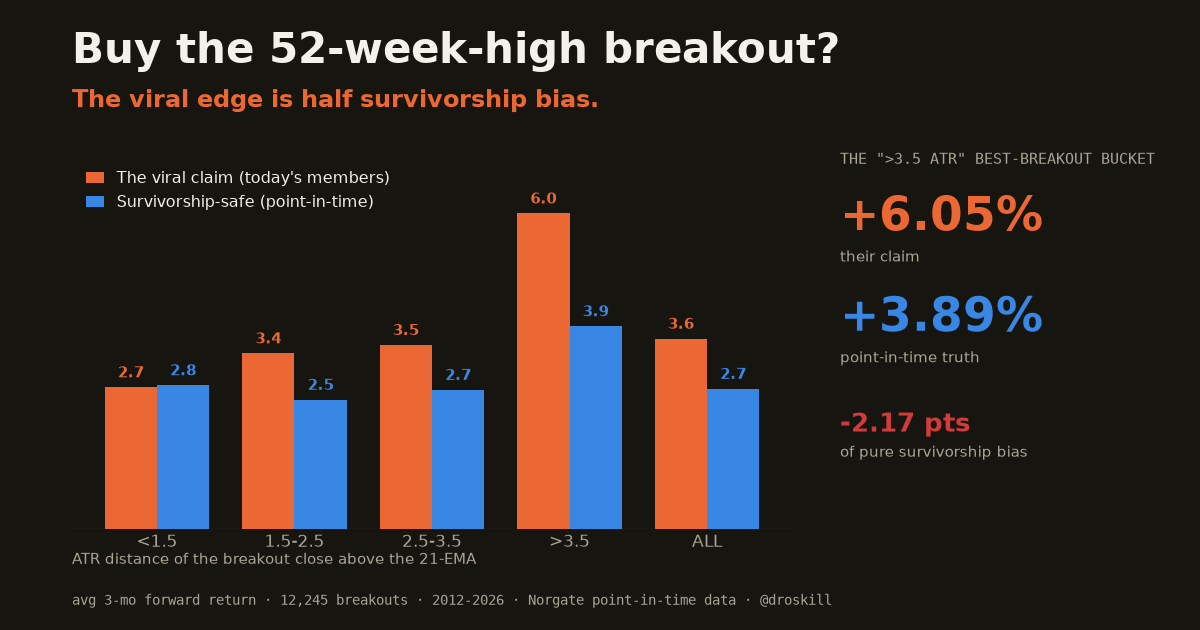
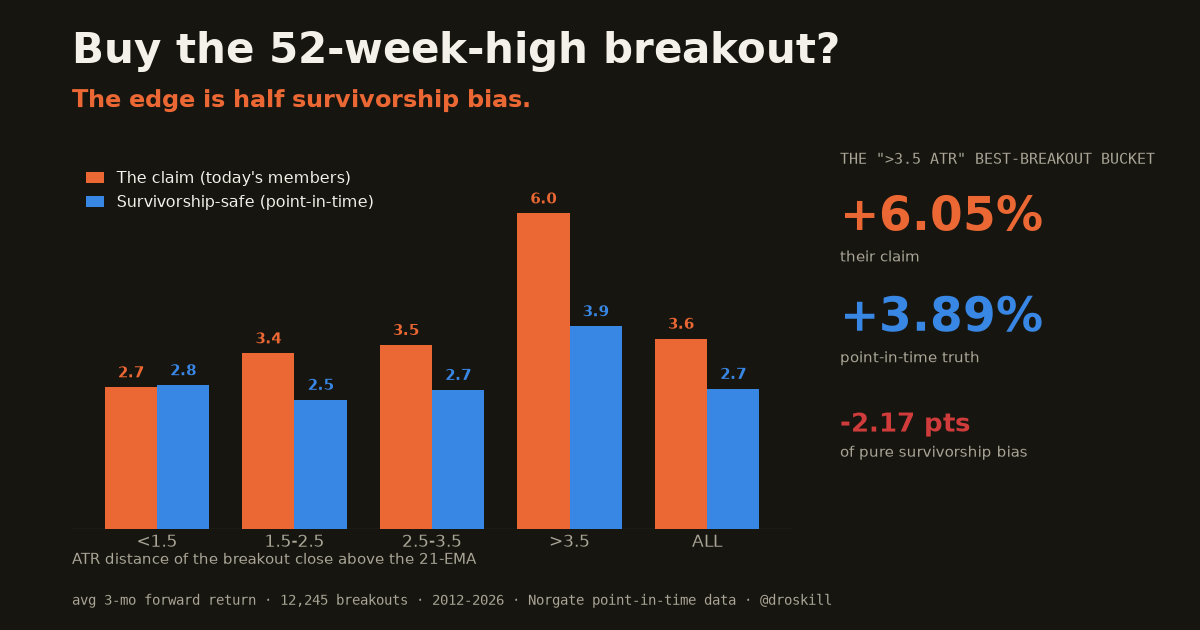
ATR breakout page: drop 'viral' from copy and card

Changed region(s): [[0.0925, 0.1206, 0.4933, 0.181], [0.1233, 0.2714, 0.3392, 0.3016]]

diff --git a/atr-breakout-study/index.html b/atr-breakout-study/index.html
@@ -4,16 +4,16 @@
 <meta charset="utf-8">
 <meta name="viewport" content="width=device-width, initial-scale=1">
 <title>Buy the Breakout, Honestly</title>
-<meta name="description" content="A survivorship-safe re-run of the viral 52-week-high breakout study across the S&P 500 and Nasdaq 100. The ATR-breakout edge is real in direction but roughly half of it is survivorship bias.">
+<meta name="description" content="A survivorship-safe re-run of the widely-shared 52-week-high breakout study across the S&P 500 and Nasdaq 100. The ATR-breakout edge is real in direction but roughly half of it is survivorship bias.">
 
 <!-- Open Graph / Twitter -->
 <meta property="og:type" content="article">
-<meta property="og:title" content="Buy the 52-week-high breakout? The viral edge is half survivorship bias.">
-<meta property="og:description" content="I re-ran the viral breakout study on point-in-time S&P 500 + Nasdaq 100 data. The '>3.5 ATR best breakout' bucket drops from +6.05% to +3.89% once the delisted names are back in.">
+<meta property="og:title" content="Buy the 52-week-high breakout? The edge is half survivorship bias.">
+<meta property="og:description" content="I re-ran the breakout study on point-in-time S&P 500 + Nasdaq 100 data. The '>3.5 ATR best breakout' bucket drops from +6.05% to +3.89% once the delisted names are back in.">
 <meta property="og:image" content="https://droskill.github.io/market-dashboard/atr-breakout-study/og-cover.png">
 <meta name="twitter:card" content="summary_large_image">
-<meta name="twitter:title" content="Buy the 52-week-high breakout? The viral edge is half survivorship bias.">
-<meta name="twitter:description" content="Point-in-time re-run of the viral breakout study across the S&P 500 + Nasdaq 100. Stronger breakouts still pay — but the headline edge is inflated ~50-80%.">
+<meta name="twitter:title" content="Buy the 52-week-high breakout? The edge is half survivorship bias.">
+<meta name="twitter:description" content="Point-in-time re-run of the breakout study across the S&P 500 + Nasdaq 100. Stronger breakouts still pay — but the headline edge is inflated ~50-80%.">
 <meta name="twitter:image" content="https://droskill.github.io/market-dashboard/atr-breakout-study/og-cover.png">
 
 <link rel="preconnect" href="https://fonts.googleapis.com">
@@ -247,7 +247,7 @@ footer a{font-family:"IBM Plex Mono",monospace; font-size:13px}
 <header>
   <p class="eyebrow">Backtest forensics · Aug 2026</p>
   <h1>Buy the breakout, <em>honestly.</em></h1>
-  <p class="dek">A viral thread said the strongest 52-week-high breakouts are the ones to buy. It ran on today&rsquo;s index members applied backward &mdash; so I re-ran the whole thing on point-in-time data, with every delisted name put back where it belongs.</p>
+  <p class="dek">A widely-shared thread said the strongest 52-week-high breakouts are the ones to buy. It ran on today&rsquo;s index members applied backward &mdash; so I re-ran the whole thing on point-in-time data, with every delisted name put back where it belongs.</p>
   <div class="byline">
     <span><b>@droskill</b></span>
     <span>S&amp;P 500 + Nasdaq 100</span>
@@ -257,7 +257,7 @@ footer a{font-family:"IBM Plex Mono",monospace; font-size:13px}
 </header>
 
 <section class="measure">
-  <p class="lead">The setup, from <a href="https://x.com/spluscollective" rel="nofollow">@spluscollective</a>: every time a stock in the S&amp;P 500 or Nasdaq 100 closes at a new 52-week high, measure its return over the next three months. Segment the breakouts by how far the closing price punched above its 21-day EMA, in units of ATR. The finding was clean and went viral: the <em>stronger</em> the breakout, the <em>better</em> it pays and the <em>less</em> often it pulls back &mdash; so stop waiting for the dip and just buy.</p>
+  <p class="lead">The setup, from <a href="https://x.com/spluscollective" rel="nofollow">@spluscollective</a>: every time a stock in the S&amp;P 500 or Nasdaq 100 closes at a new 52-week high, measure its return over the next three months. Segment the breakouts by how far the closing price punched above its 21-day EMA, in units of ATR. The finding was clean and widely shared: the <em>stronger</em> the breakout, the <em>better</em> it pays and the <em>less</em> often it pulls back &mdash; so stop waiting for the dip and just buy.</p>
 
   <p>It&rsquo;s a good study. But it has one load-bearing flaw, stated right in the first line: &ldquo;all 511 stocks in $SPY and $QQQ.&rdquo; That&rsquo;s <strong>today&rsquo;s</strong> membership, applied across 14 years of history. Every company that was kicked out of the index &mdash; the blowups, the busts, the ones acquired on the way down &mdash; is silently deleted from the sample. That&rsquo;s survivorship bias, and it doesn&rsquo;t hit evenly. It hits the violent-breakout tail hardest, because a former high-flyer that ripped +4 ATR and then collapsed out of the index is exactly the data point that gets erased.</p>
 
@@ -294,7 +294,7 @@ footer a{font-family:"IBM Plex Mono",monospace; font-size:13px}
     <h3>Average 3-month return by ATR-breakout size</h3>
     <p class="csub">their method (today&rsquo;s members) vs. survivorship-safe (point-in-time)</p>
     <div class="legend">
-      <span><i style="background:var(--claim)"></i>The viral claim &mdash; today&rsquo;s members</span>
+      <span><i style="background:var(--claim)"></i>The claim &mdash; today&rsquo;s members</span>
       <span><i style="background:var(--safe)"></i>Survivorship-safe &mdash; point-in-time</span>
     </div>
     <div class="chart" id="chart1"></div>
@@ -466,7 +466,7 @@ function drawAll(){
   groupedBars('#chart1',{
     cats:['<1.5','1.5-2.5','2.5-3.5','>3.5','ALL'], ymax:7, aria:'Average 3-month return by ATR bucket, biased versus survivorship-safe',
     series:[
-      {name:"Viral claim",colorVar:'--claim',values:[2.72,3.37,3.53,6.05,3.65]},
+      {name:"The claim",colorVar:'--claim',values:[2.72,3.37,3.53,6.05,3.65]},
       {name:"Survivorship-safe",colorVar:'--safe',values:[2.76,2.48,2.67,3.89,2.69]}
     ]});
   groupedBars('#chart2',{
